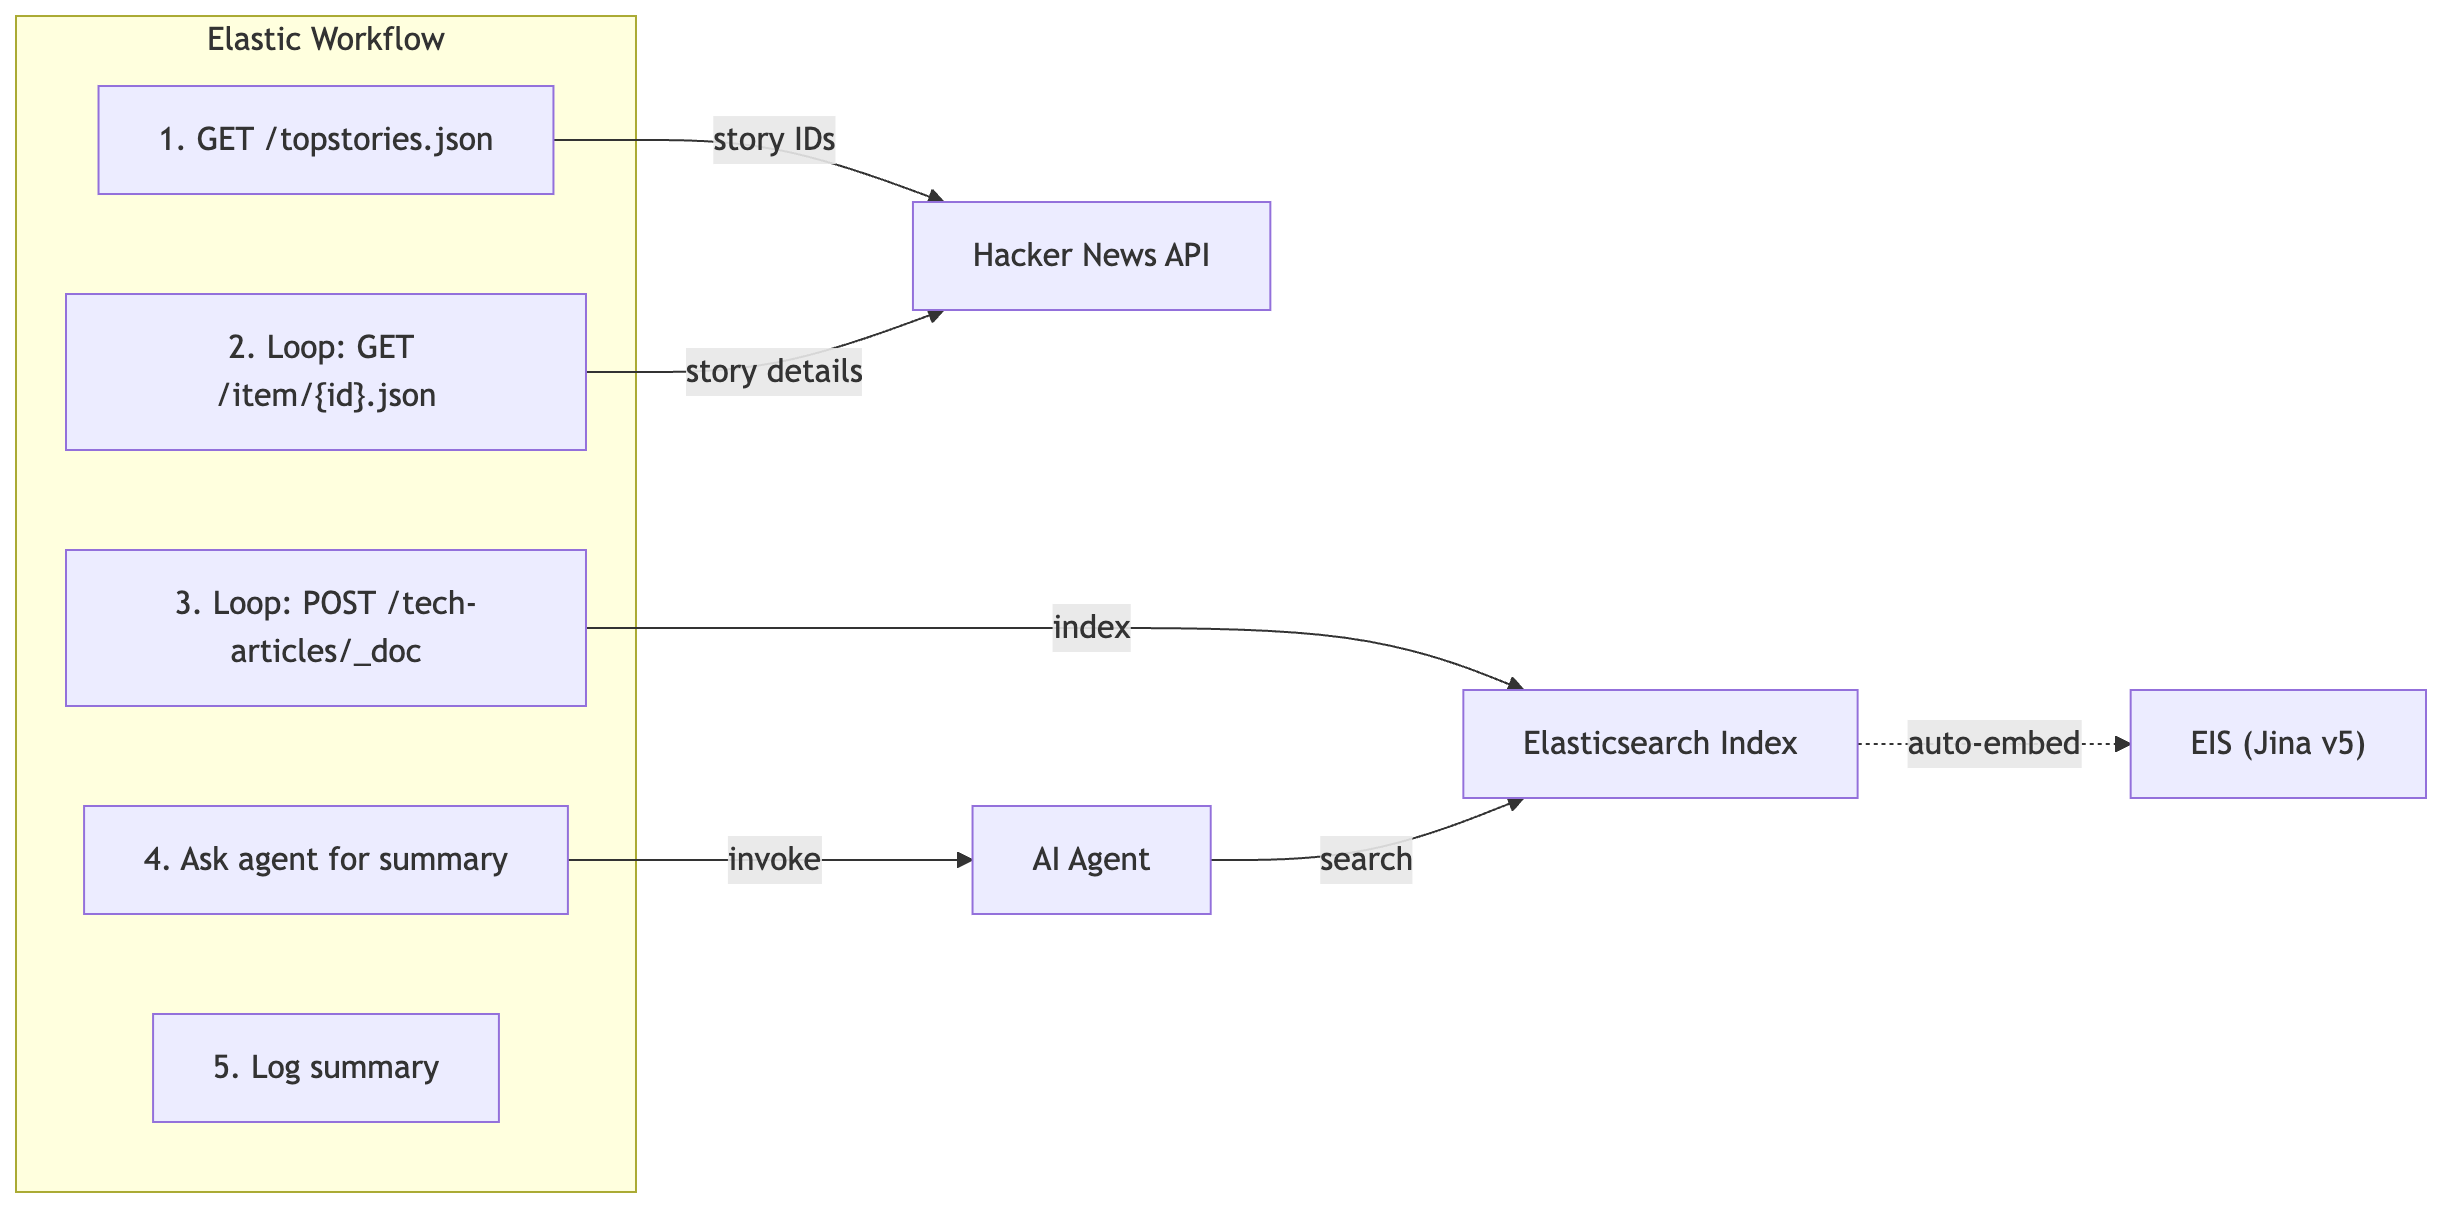
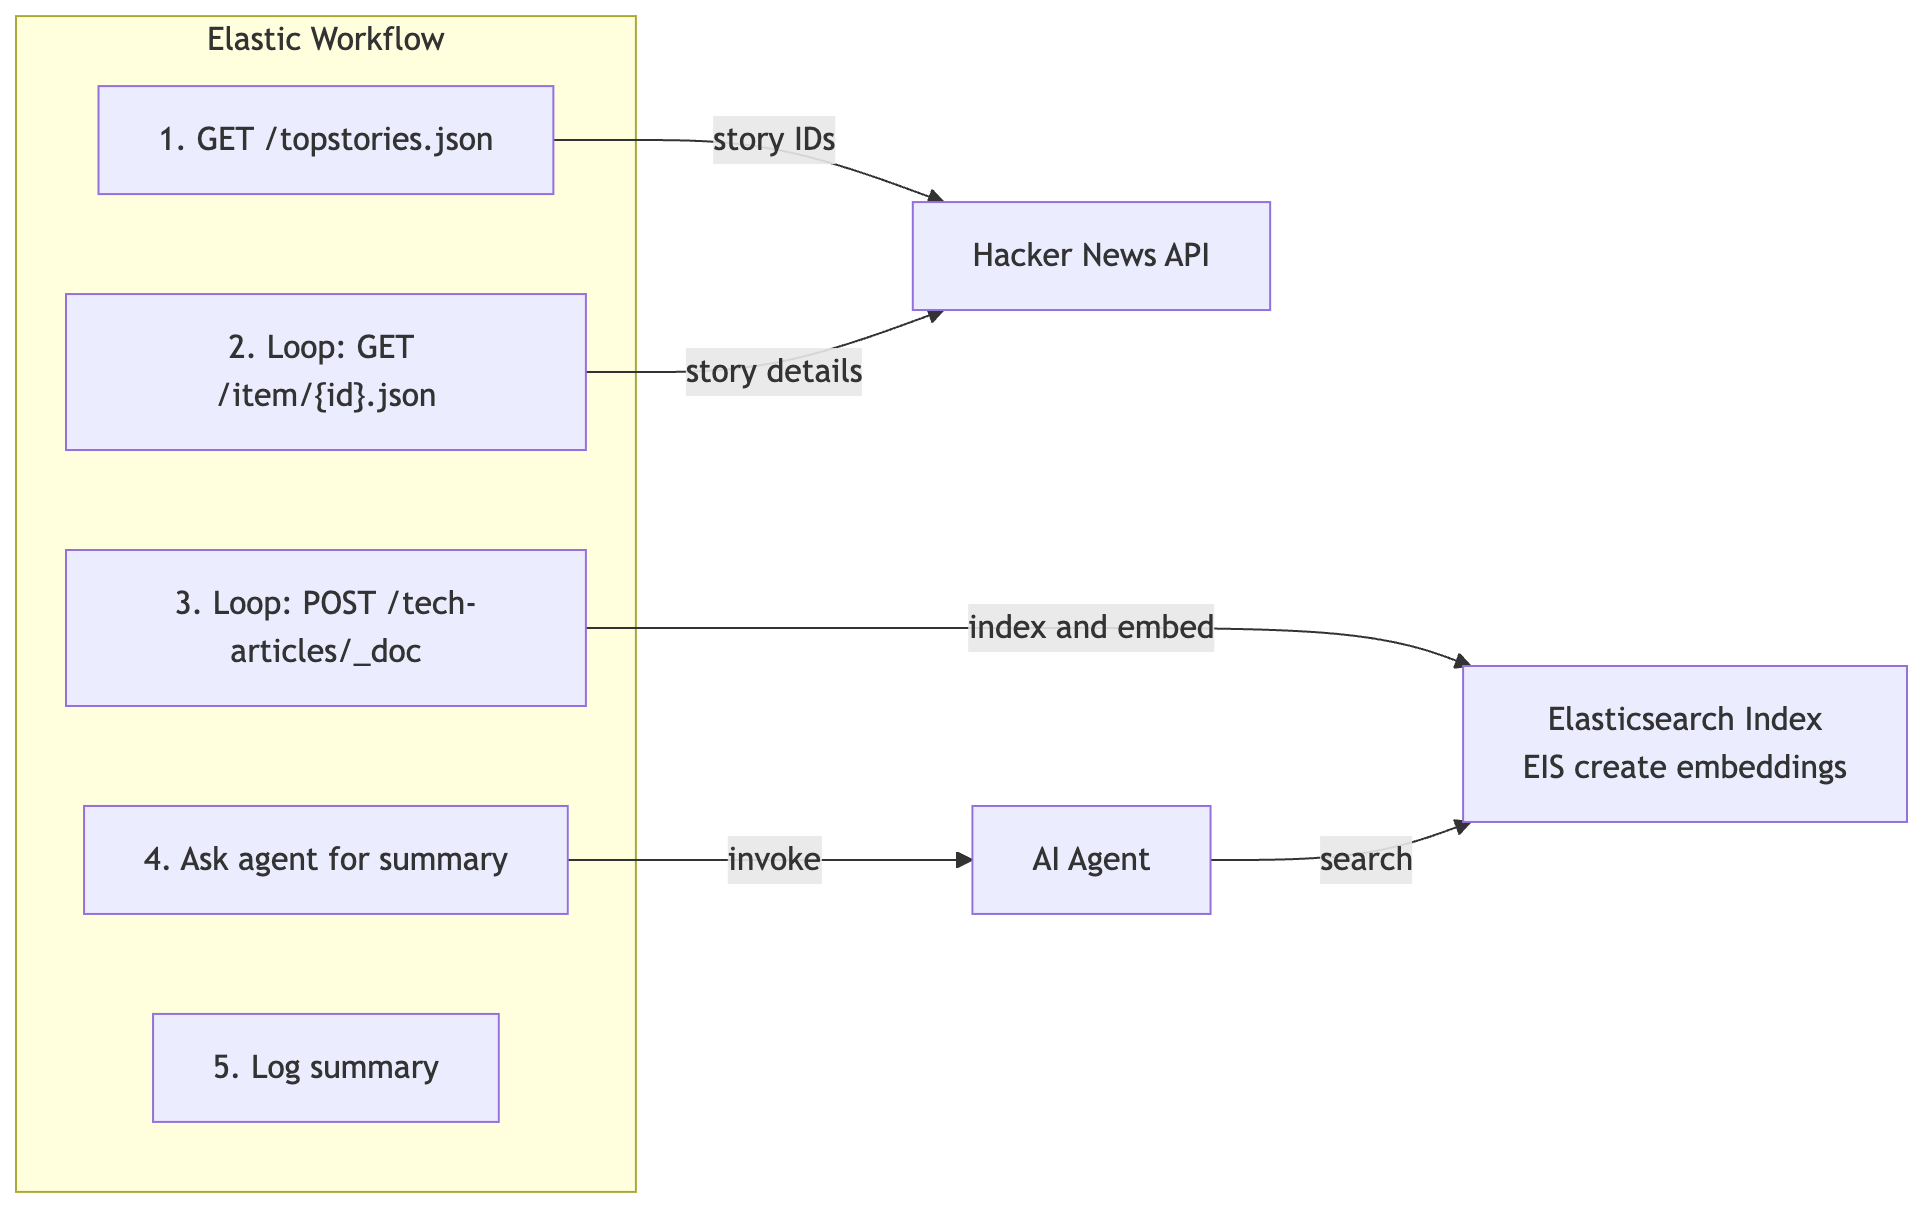
update diagrams and images

diff --git a/diagrams.md b/diagrams.md
@@ -1,37 +1,4 @@
 ```mermaid
-graph TD
-    HN["Hacker News API"] -->|stories| WF["Elastic Workflow"]
-    WF -->|index documents| ES["Elasticsearch Index"]
-    ES -->|auto-embed via| EIS["EIS (Jina v3)"]
-    WF -->|invoke| Agent["AI Agent"]
-    Agent -->|search| ES
-```
-
-```mermaid
-graph TD
-    subgraph "Typical setup"
-        A["Embedding API
-         (OpenAI, Cohere)"]
-        B["Vector Database
-        (Pinecone, Weaviate)"]
-        D["LLM Orchestrator
-        (LangChain, LlamaIndex)"]
-        E["Scheduler
-        (Airflow, cron)"]
-    end
-
-    subgraph "Elasticsearch"
-        F["Managed Inference"]
-        G["Semantic + BM25 Index"]
-        H["Hybrid Retrieval"]
-        I["AI Agent"]
-        J["Workflows"]
-    end
-```
-
-
-
-```mermaid
 graph LR
     subgraph "Elastic Workflow"
         S1["1. GET /topstories.json"]
@@ -42,14 +9,25 @@ graph LR
     end
 
     HN["Hacker News API"]
-    ES["Elasticsearch Index"]
-    EIS["EIS (Jina v5)"]
+    ES["Elasticsearch Index/EIS create embeddings"]
     Agent["AI Agent"]
 
     S1 -->|story IDs| HN
     S2 -->|story details| HN
-    S3 -->|index| ES
-    ES -.->|auto-embed| EIS
+    S3 -->|index and embed| ES
     S4 -->|invoke| Agent
     Agent -->|search| ES
 ```
+
+```mermaid
+graph TD
+    DS["Data Source"] -->|raw data| WF["Elastic Workflows"]
+    WF -->|index and embed| ES["Elasticsearch Index
+    (Semantic + BM25)
+    Using EIS"]
+    ES -->|data ready| Agent["AI Agent
+    (Agent Builder)"]
+    Agent -->|query via
+    hybrid retrieval| ES
+```
+
